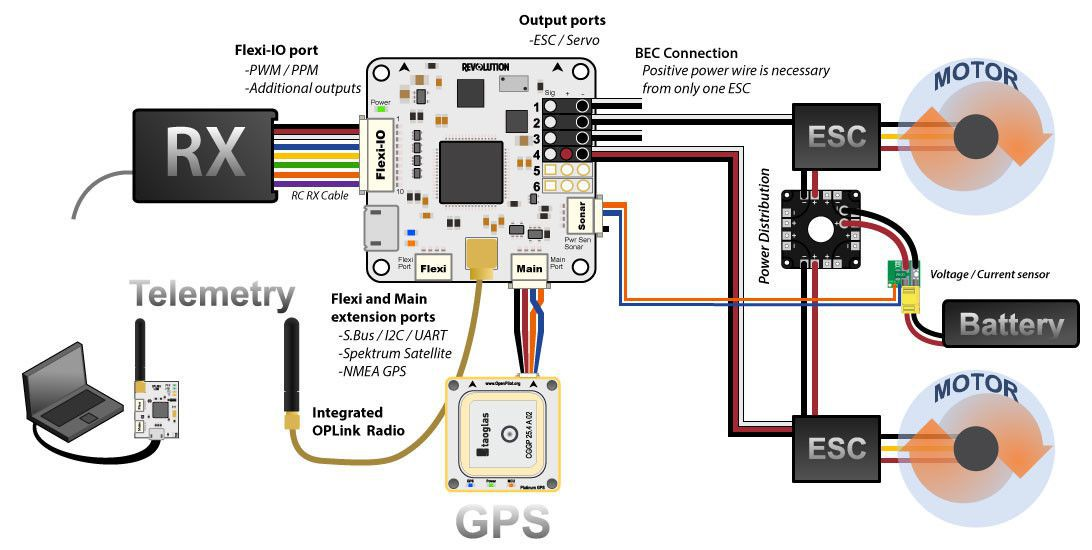
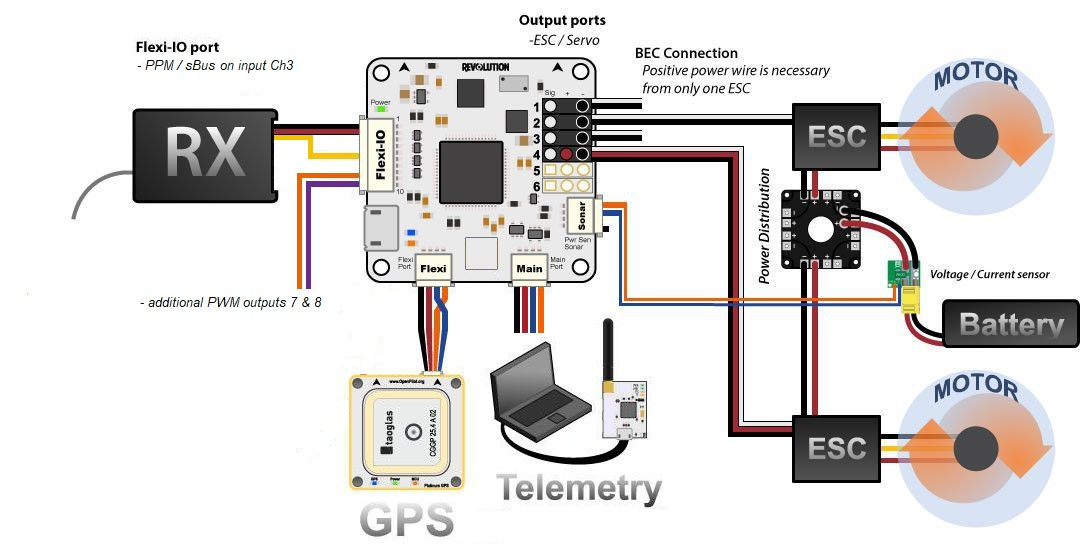
Common: rework Revolution(mini) hardware page

Changed region(s): [[0.0, 0.2473, 0.6227, 0.9891], [0.1245, 0.0618, 0.3425, 0.1855]]

diff --git a/common/source/docs/common-openpilot-revo-mini.rst b/common/source/docs/common-openpilot-revo-mini.rst
@@ -4,11 +4,8 @@
 OpenPilot Revolution and RevoMini
 =================================
 
-.. image:: ../../../images/openpilot-revo-mini.jpeg
-    :target: ../_images/openpilot-revo-mini.jpeg
-    
-.. image:: ../../../images/revomini_cased.jpg
-    :target: ../_images/revomini_cased.jpg
+.. image:: ../../../images/revo_mini_boards.jpg
+    :target: ../_images/revo_mini_boards.jpg
 
 *Images and some content courtesy of the* `LibrePilot wiki <https://librepilot.atlassian.net/wiki/spaces/LPDOC/pages/26968084/OpenPilot+Revolution>`__
 
@@ -19,14 +16,13 @@ Specifications
 
    -  STM32F405RGT6 ARM Cortex-M4 microcontroller
    -  168 Mhz/1 MB Flash
-   -  32-bit failsafe co-processor
 
 -  **Sensors**
 
    -  InvenSense MPU6000 IMU (accel, gyro)
    -  Honeywell HMC5883L compass
-   -  MS5611 barometers
-
+   -  MS5611 barometer
+   
 -  **Power**
 
    -  4.8V ~ 10V input power provided through ESC connection for fullsize Revolution
@@ -34,108 +30,83 @@ Specifications
 
 -  **Default Interfaces**
 
-   -  6 PWM outputs
-   -  RC input PPM/sBus on RC input port's signal pin 3 (the yellow wire)
+   -  8 PWM outputs (1 - 6 on PWM output pins, 7 & 8 on Flex-IO / RCInput port)
+   -  RC input (requires PPM/sBus) on Flex-IO / RCInput port's CH3 pin (yellow wire on fullsize revolution)
    -  analog to digital inputs for battery voltage and current monitoring ( set pins 12,11 in params ), more adcs possible on arbitrary pins
-   -  GPS rx / tx on Flexy port
-   -  Telem1 on mainport
-   -  USB port
+   -  GPS (SERIAL3) on Flexi Port
+   -  Telemetry (SERIAL1) on Mainport
+   -  USB (SERIAL0) port
    -  SWD Port for flashing and debugging, including 3.3V output for optional periphereals
    -  MMCX antenna connector for integrated HopeRF RFM22B 100mW 433MHz (fullsize Revolution only)
-   -  OPLink port on RevoMini. OPLink hardware is not supported by ArduPilot, but this port exposes pins to be used for supported periphereals like SD card adapter
+   -  OPLink port on RevoMini. OPLink hardware is not supported by ArduPilot, but this port exposes external SPI pins (SCK, CS, MOSI, MISO) that can be used for supported SPI periphereals like SD card adapters or SPI OSD breakout boards (requires additions to hardware definition file and compiling a custom firmware).
    
-   Up to date info on Plane pinouts can be found here in define section: https://github.com/ArduPilot/ardupilot/blob/master/libraries/AP_HAL_ChibiOS/hwdef/revo-mini/hwdef.dat
-   
-   
-   
-- **Optional Settings**
+.. note::
+    Single channel PWM-type RC input is not supported on this hardware. See reference for :ref:`supported RC systems <common-pixhawk-and-px4-compatible-rc-transmitter-and-receiver-systems>`
 
-   -  I2C on Flexi port
-   -  RevoMini's OPLink port can be used for external SD card connection
-   -  arbitrary pins can be used for various connections like 2nd GPS, additional PWM outputs etc. within certain restrictions
-   
+Default UART order
+==================
 
-The RevoMini likely is the smallest footprint autpilot hardware to support ArduPilot. It does not offer CAN bus connectivity or sufficient onboard memory for storage of relevant logging data. However, an external SD card adapter can be added with limited effort.
+- SERIAL0 = console = USB
+- SERIAL1 = Telemetry1 = Mainport
+- SERIAL2 = NN in default config
+- SERIAL3 = GPS1 = FlexiPort
+   
+.. tip::
+    See hardware definition file for more info on pinout:
+    https://github.com/ArduPilot/ardupilot/blob/master/libraries/AP_HAL_ChibiOS/hwdef/revo-mini/hwdef.dat
+   
+   
+Wiring diagrams
+===============
+**Ardupilot default pin assignments on fullsize Revolution and RevoMini**
+
+.. image:: ../../../images/revolution_wiring.jpg
+    :target: ../_images/revolution_wiring.jpg
+    
+.. image:: ../../../images/revomini_wiring.jpg
+    :target: ../_images/revomini_wiring.jpg
+    
+   
+Optional connectivity
+=====================
+**requires compiling custom firmware based on changes to hwdef**
+
+-  I2C on Flexi port
+-  RevoMini's OPLink port can be used for external SPI periphereals connection
+-  arbitrary pins can be used for various connections like 2nd GPS, additional PWM outputs etc. within certain restrictions
+
+The RevoMini likely is the smallest footprint autpilot hardware to support ArduPilot. It does not offer CAN bus connectivity or sufficient onboard memory for storage of relevant logging data. However, external I2C or SPI periphereals can be added with limited effort.
 
 .. image:: ../../../images/revominiSD.jpg
     :target: ../_images/revominiSD.jpg
+    
+
 
 Where to Buy
 ============
 
 - Available from many retailers including `HobbyKing <https://hobbyking.com/en_us/openpilot-cc3d-revolution-revo-32bit-flight-controller-w-integrated-433mhz-oplink.html>`__.
 
-Flashing Firmware
+Firmware handling
 =================
 Support for Revolution and RevoMini has been introduced with Ardupilot's ChibiOS port. Firmware files can be found `here <http://firmware.ardupilot.org/>`__
-Besides the .apj files for firmware flashing via MissionPlanner, there's also .hex files for use with various utilities like dfu-util or betaflight / iNav GUIs. You will also find a _bl.hex that contains the firmware plus the ArduPilot compatible bootloader in case it is not already present on your board. 
 
-The ArduPilot compatible bootloader is required for first time flashing of ArduPilot firmware. The provided _bl.hex file can be flashed using BF or iNav GUI, likely the most convenient way to get ArduPilot on your board the first time.
-
-Alternatively, the bootloader can be flashed separately. This requires the board to be put into DFU mode. Tools like dfu-util can be used to flash the bootlader. Once the bootlader is present, all subsequent firmware updates can be done using MissionPlanner's firmware functions.
+First time flashing ArduPilot requires to boot your device in DFU mode to flash an ArduPIlot compatible bootloader and firmware file.
 
 Enter DFU Mode
 --------------
-To do this, you'll need to locate and short two pads on the device. 
+To do this, you'll need to locate and short two pads on the device. On fullsize Revolution they are designated as "SB" or "SBL":
+
+.. image:: ../../../images/revolution_dfu.jpg
+    :target: ../_images/revolution_dfu.jpg
+
+On RevoMini they are located here:
 
 .. image:: ../../../images/revomini1.jpeg
     :target: ../_images/revomini1.jpeg
 
-You can short the pads in any particular way (either with a wire, solder joint, or something else). Detailed instructions are available on the `Revo Mini LibrePilot Wiki <https://librepilot.atlassian.net/wiki/spaces/LPDOC/pages/29622291/Recover+board+using+DFU>`__. A small wire is the easiest way to short the device. You can also power the device via USB first, and then short the pads if using a wire. Once you have the device in DFU mode and connected to your machine continue with the steps here.
+You can short the pads in any particular way (either with a wire, solder joint, or something else). Detailed instructions are available on the `Revo Mini LibrePilot Wiki <https://librepilot.atlassian.net/wiki/spaces/LPDOC/pages/29622291/Recover+board+using+DFU>`__. A small wire is the easiest way to short the device. You can also power the device via USB first, and then short the pads if using a wire. Once you have the device in DFU mode and connected to your machine continue with the following steps to :ref:`load ArduPilot firmare onto ChibiOS boards <common-loading-firmware-onto-chibios-only-boards>`.
 
-Install dfu-util
------------------
-Linux (Ubuntu)
-::
-    
-    sudo apt-get install dfu-util
-    
-OS X
-::
-    
-    brew install dfu-util
-    
-Windows
-
-Refer to the Revo Mini LibrePilot wiki above. Install the Zadig USB driver and download the `LibrePilot_dfu_flash.zip <https://librepilot.atlassian.net/wiki/download/attachments/29622291/LibrePilot_dfu_flash.zip?version=2&modificationDate=1464128116188&cacheVersion=1&api=v2>`__. Extract the zip archive and open a command prompt or PowerShell window in the directory.
-
-Flash Bootloader
-----------------
-
-Bootloader binaries for the current targets can be found `here <http://firmware.ardupilot.org/Tools/Bootloaders>`__
-
-Download revo-mini_bl.bin for this board type. With your board connected via USB and put into DFU mode, open a terminal and flash the new bootloader with the following command line:
-
-::
-
-    sudo dfu-util -d 0483:df11 -c 1 -i 0  -a 0  -D revo-mini_bl.bin  -s 0x08000000
-
-Once the flashing is complete, power cycle the board and you should see a solid power LED and a rapidly blinking blue LED.
-
-.. image:: ../../../images/openpilot-revo-mini-awaiting-firmware.jpg
-    :target: ../_images/openpilot-revo-mini-awaiting-firmware.jpg
-    :width: 450px
-
-Alternatively, board-specific bootloaders can be built from source with ./waf using the --bootloader option.
-
-
-Flash ArduPilot
----------------
-Open Mission Planner and go to the Initial Setup tab. Verify that the COM port in the top right is the same as in Device Manager.
-
-.. image:: ../../../images/openpilot-revo-mini-com-ports.png
-    :target: ../_images/openpilot-revo-mini-com-ports.png
-
-Choose "Load Custom Firmware" and browse to the respective .apj file. After the flash is complete, power cycle the device.
-
-.. image:: ../../../images/openpilot-revo-mini-load-firmware.png
-    :target: ../_images/openpilot-revo-mini-load-firmware.png
-
-Congratulations! You're now running ArduPilot on the OpenPilot Revolution Mini. You can use this same process to upgrade to newer versions of ArduPilot. Either use MP's firmware update functionality or compile your own desired vehicle firmware from source and upload the .apj file to the board.
-
-.. image:: ../../../images/openpilot-revo-mini-flashed.jpg
-    :target: ../_images/openpilot-revo-mini-flashed.jpg
-    :width: 450px
     
 Compile ArduPilot
 -----------------
